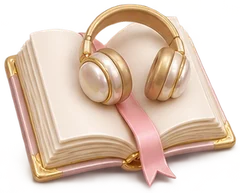
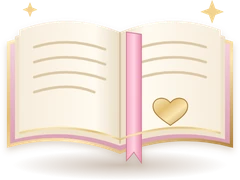
Romanzi: icona nuova, il libro aperto senza cuffie
Claude-Session: https://claude.ai/code/session_019m7DxKw2gBAuMv2CidtewN

diff --git a/index.html b/index.html
@@ -3538,7 +3538,7 @@ body:not(.on-home) .petals { display: none; }
               <span class="gp-new" data-i18n="rwNew"></span>
             </a>
             <a class="gp-tile gp-wide" href="romanzi/">
-              <img class="gp-ic" src="h/i-rm.webp" alt="" width="240" height="193" decoding="async">
+              <img class="gp-ic" src="h/i-rm.webp?v=2" alt="" width="240" height="180" decoding="async">
               <span class="gp-text"><span class="gp-name" data-i18n="gameRm"></span><span class="gp-tag" data-i18n="gpRmTag"></span></span>
               <span class="gp-new" data-i18n="rwNew"></span>
             </a>
